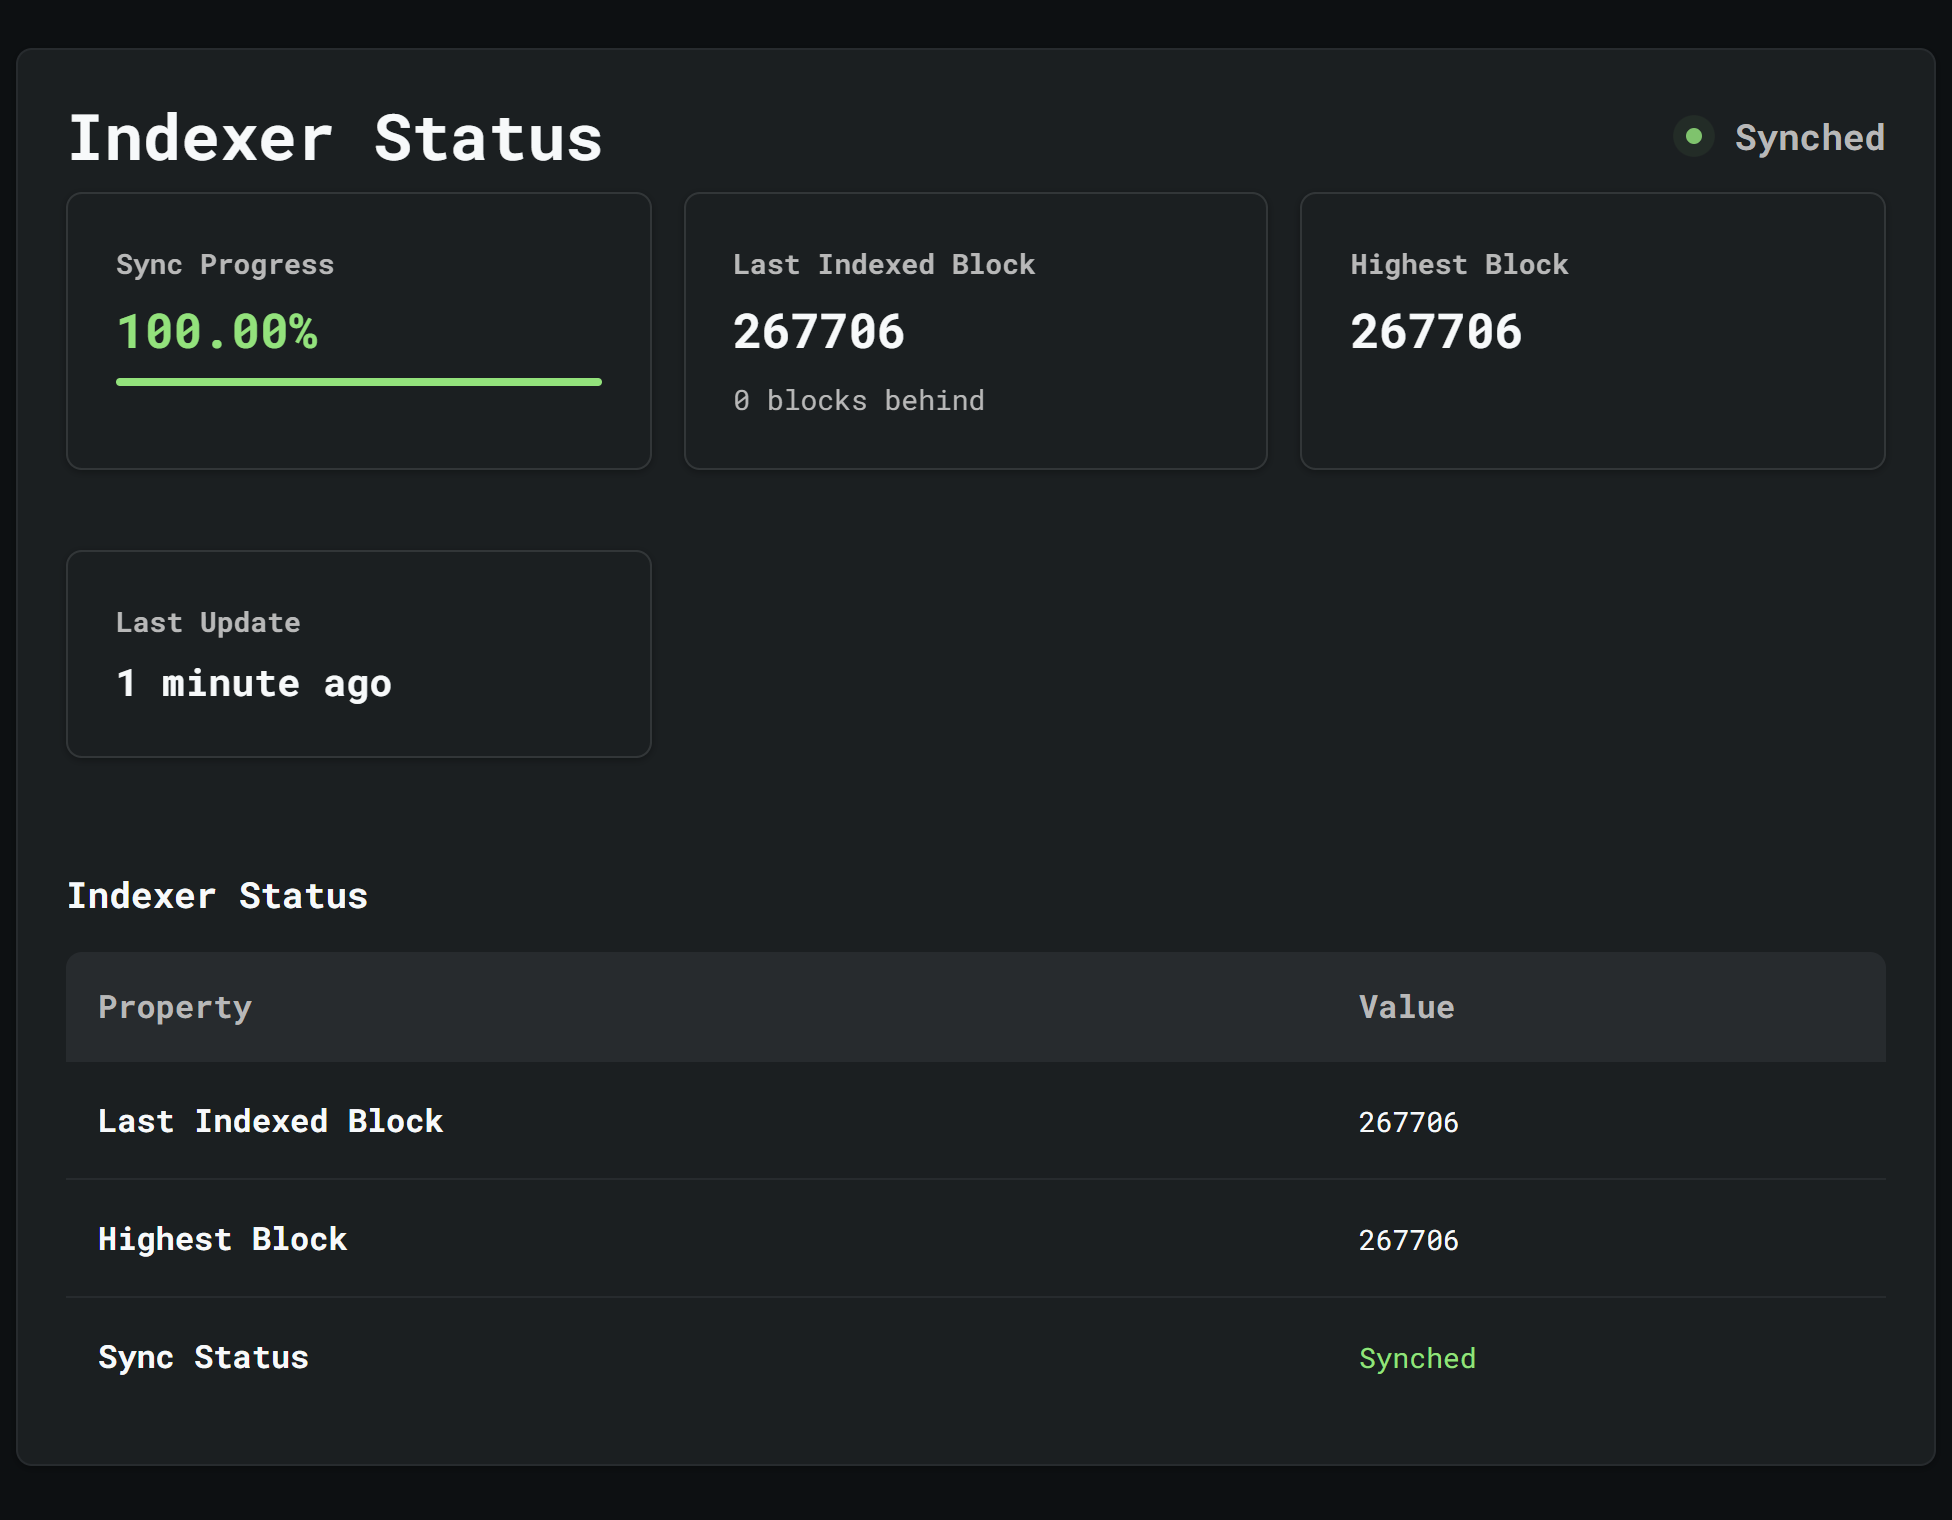
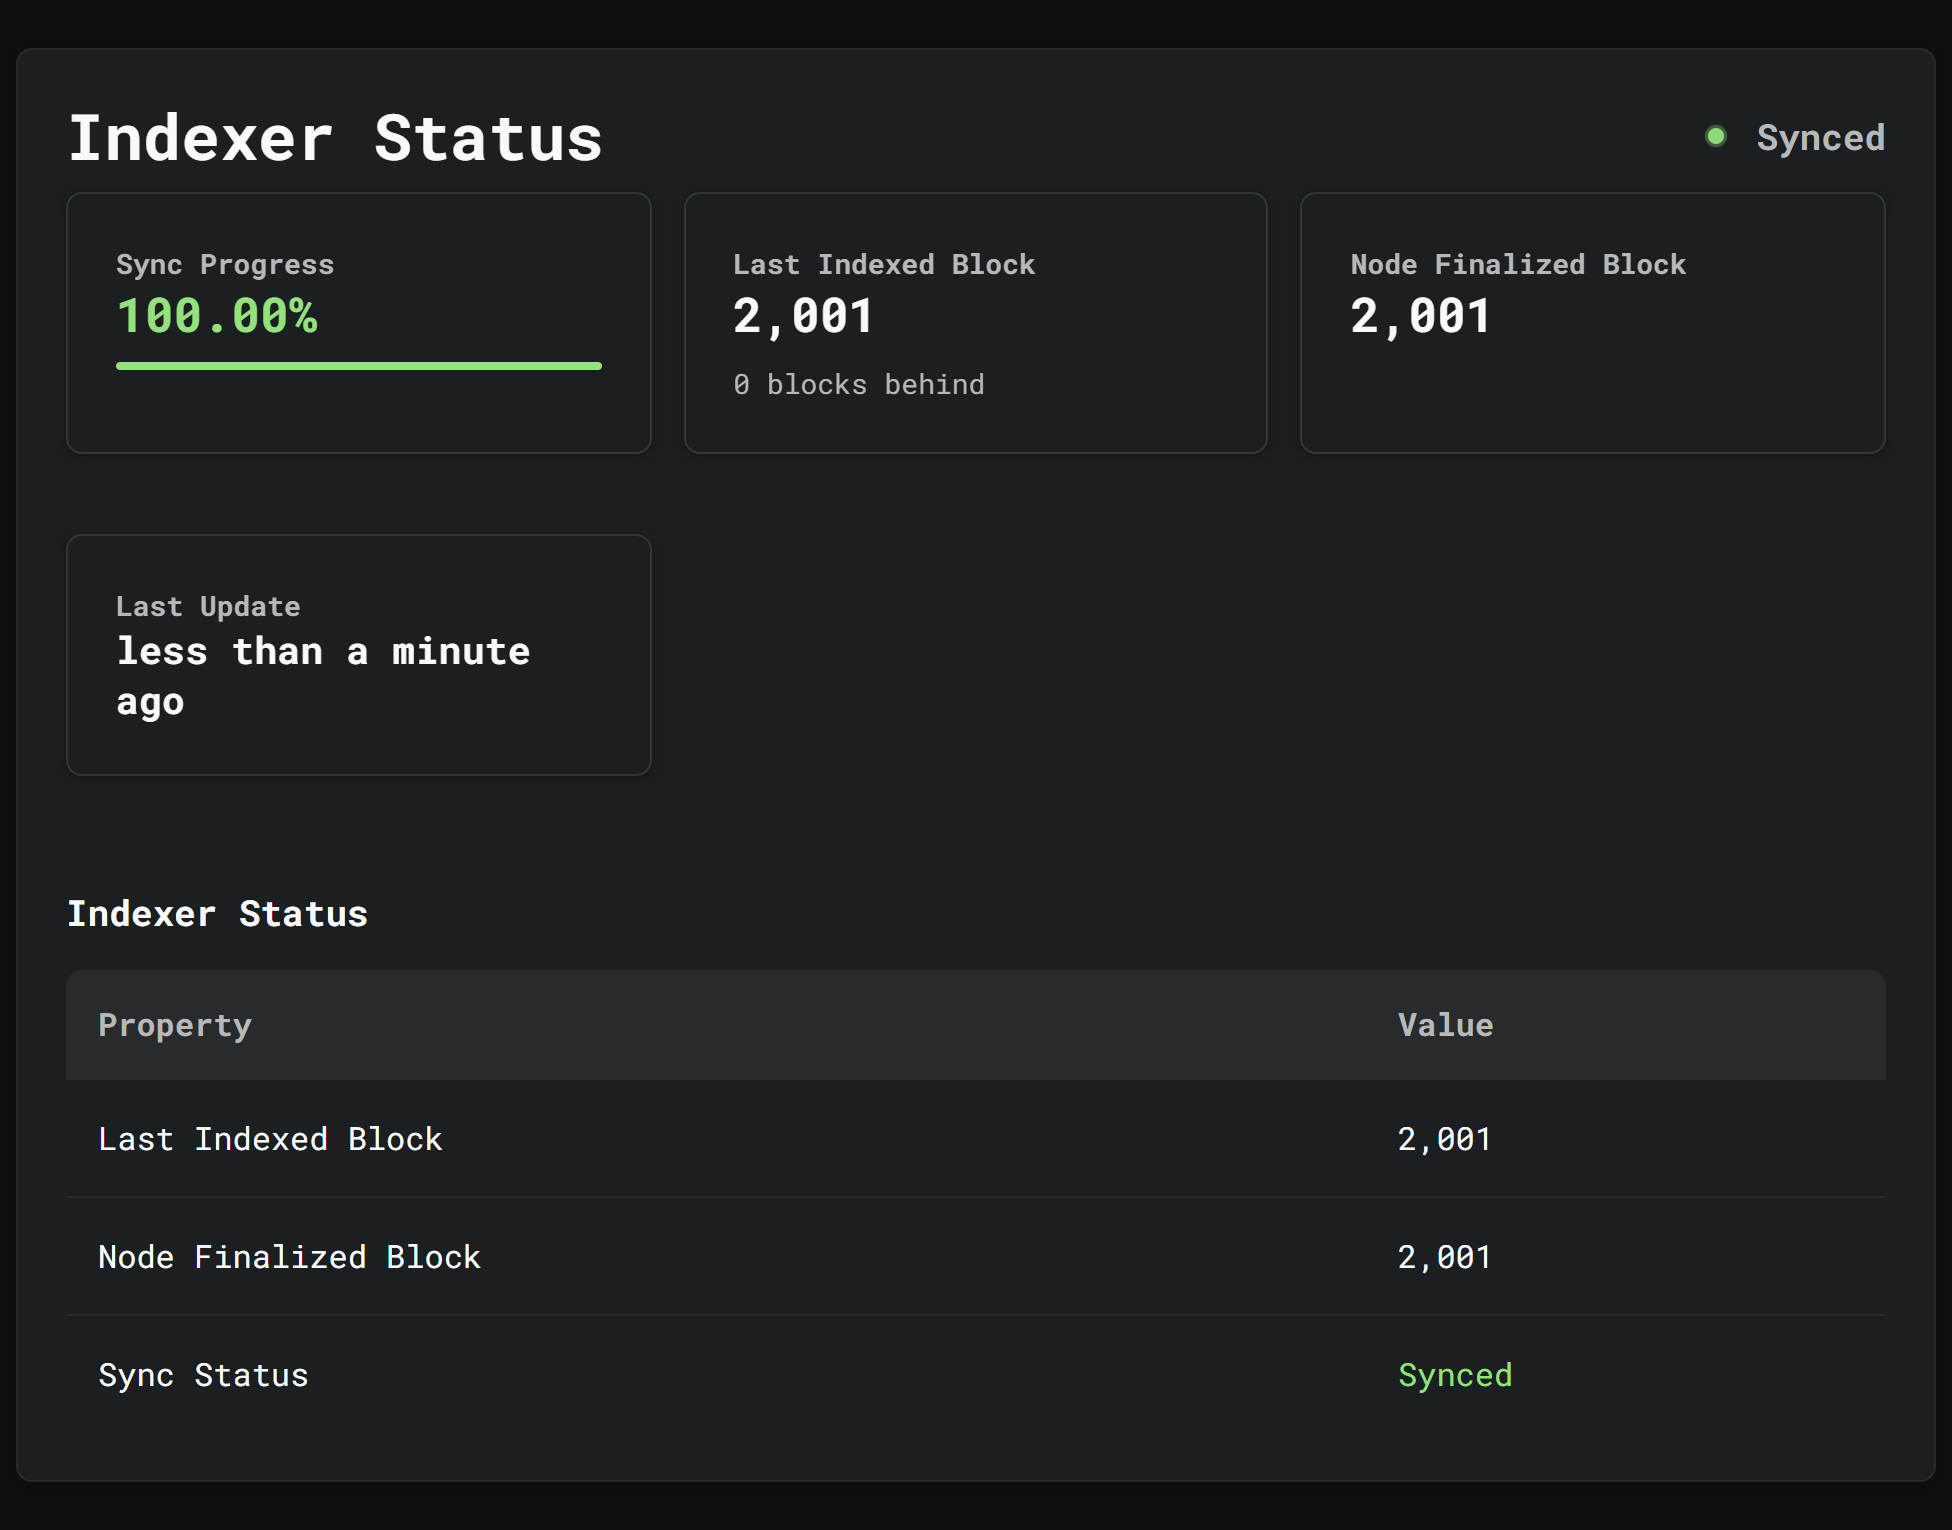
[AS-913] Retake the validator and indexer screenshots from the explorer dev build

diff --git a/explorer/usage/index.md b/explorer/usage/index.md
@@ -79,19 +79,19 @@ The **Validators** page starts with three cards, **Total Validators**, **Total A
 
 Stakes are shown in full, without rounding.
 
-Below the table, the **Inactive Validators** section lists validators that are not in the current bond set. Its columns are **Public Key**, **Last Recorded Stake (ASI)**, **Blocks Proposed**, **First Seen**, **Last Seen** and **Status**. Their last recorded stake is not counted in the totals above.
+If some validators are not in the current bond set, the **Inactive Validators** section appears below the table and lists them. Its columns are **Public Key**, **Last Recorded Stake (ASI)**, **Blocks Proposed**, **First Seen**, **Last Seen** and **Status**. Their last recorded stake is not counted in the totals above.
 
 ASI has 18 decimal places. The explorer formats amounts using their recorded precision. See [Token Amounts](/reference/token-amounts/).
 
 The **View History** button opens the **Validator History** page.
 
-![The Validators page with summary cards and the table of validators and their stakes.](/images/explorer/validators-page.webp){width=976 height=692}
+![The Validators page with summary cards and the table of validators and their stakes.](/images/explorer/validators-page.webp){width=1048 height=592}
 
 ### Validator History
 
 **Validator History** shows the validator set at any block. Type a block number into the **Block** field. The page then shows the block time and proposer, the number of active validators, and a table with each validator's stake and share, where the block proposer is marked. If several blocks share the height, a **Block hash** list lets you pick one of them. Total, average, minimum and maximum stake for that block are listed under the table.
 
-![The Validator History page for one block with its proposer, validator count and stake table.](/images/explorer/validators-history.webp){width=976 height=876}
+![The Validator History page for one block with its block hash list, proposer, validator count and stake table.](/images/explorer/validators-history.webp){width=976 height=931}
 
 ## Statistics
 
@@ -107,7 +107,7 @@ The indexer is the service that reads blocks from the node and stores them in th
 
 The label in the top right is **Synced**, **Syncing**, **Ahead of node**, **Waiting for first block**, **Stopped** or **Unavailable**. **Stopped** means that the indexer process is not running, and **Unavailable** means that the indexer cannot reach the node. The cards show **Sync Progress**, the **Last Indexed Block** with the number of blocks it is behind, the **Node Finalized Block** and the age of the **Last Update**. The table at the bottom repeats the last indexed block, the node finalized block and the sync status. The page reads the indexer status endpoint and refreshes every 5 seconds.
 
-![The Indexer page with the sync status label, progress cards and the table of block numbers.](/images/explorer/indexer-status.webp){width=976 height=760}
+![The Indexer page with the sync status label, progress cards and the table of block numbers.](/images/explorer/indexer-status.webp){width=976 height=765}
 
 ## Export
 
